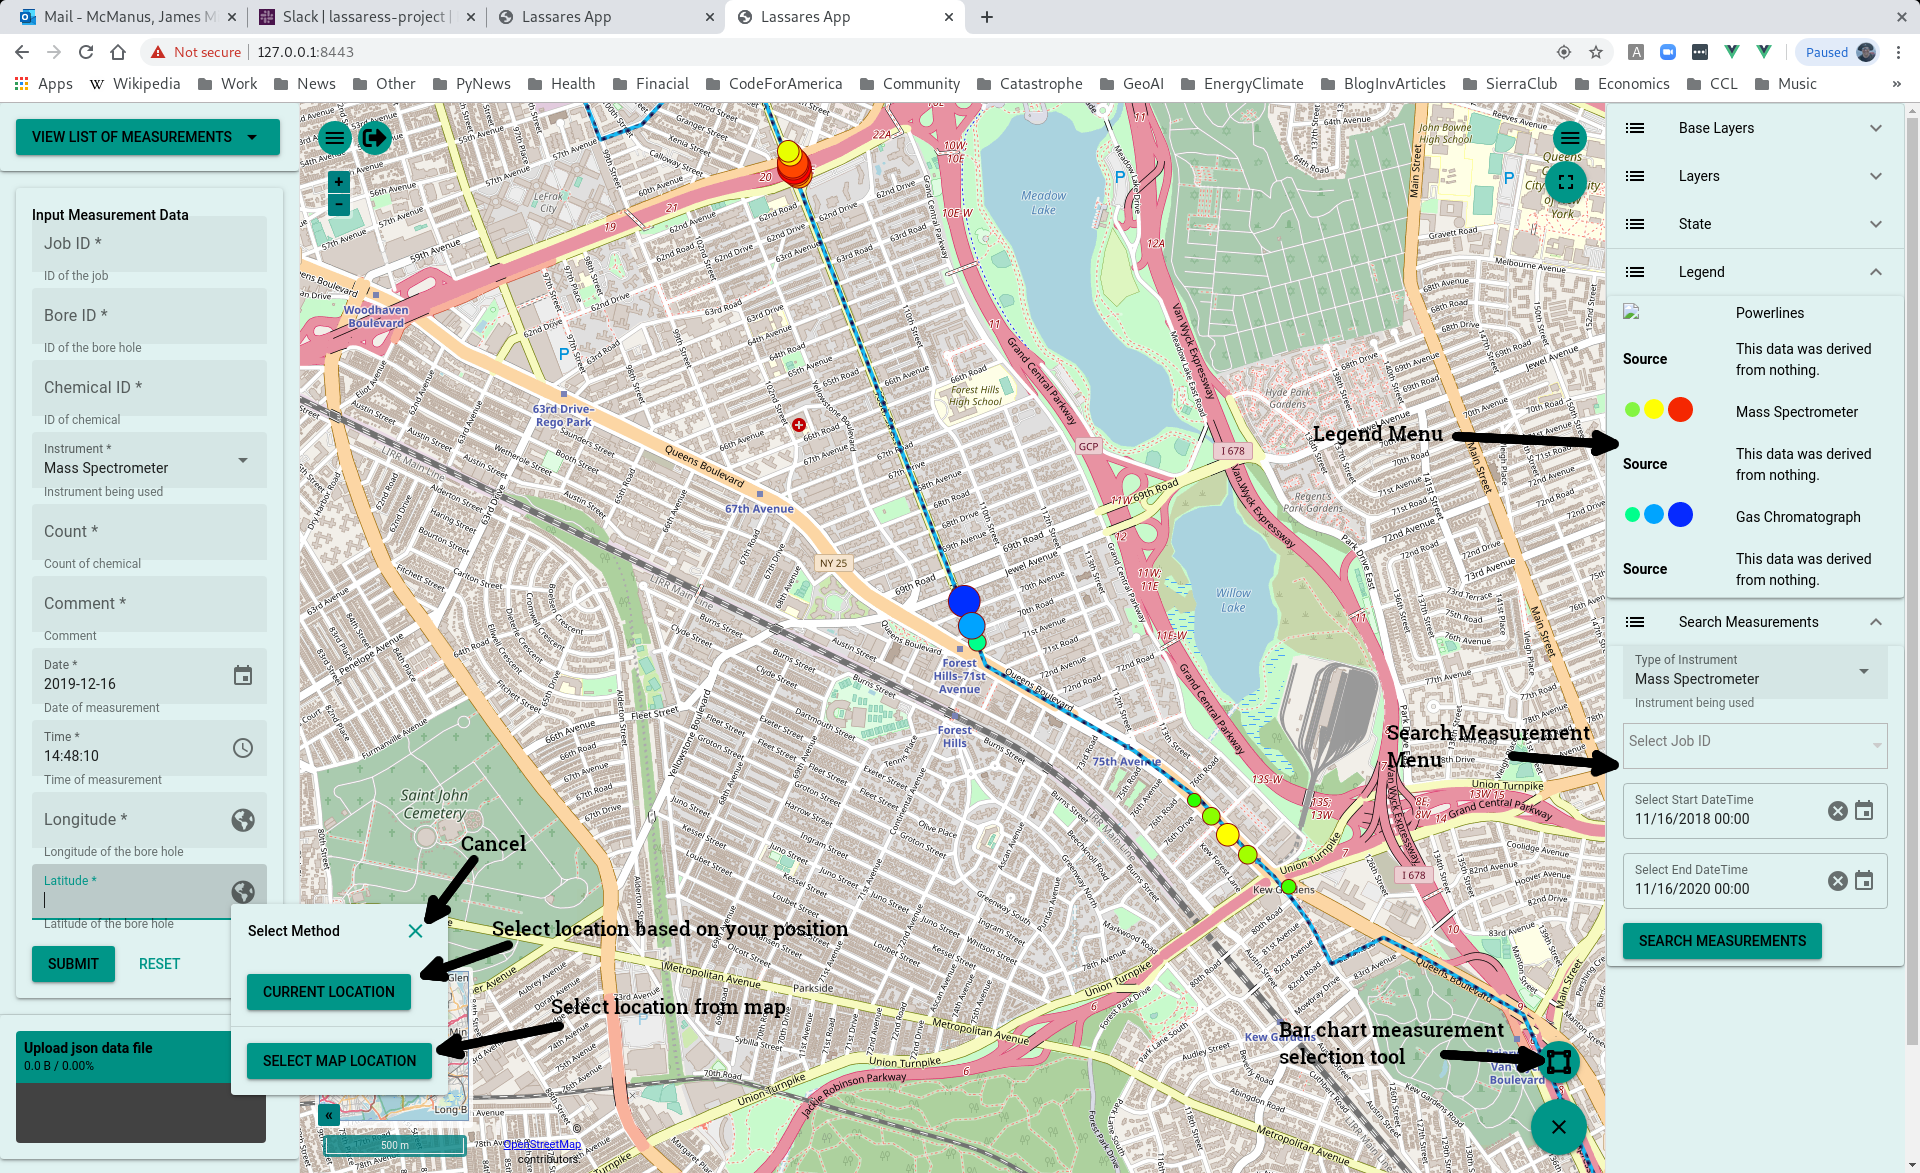
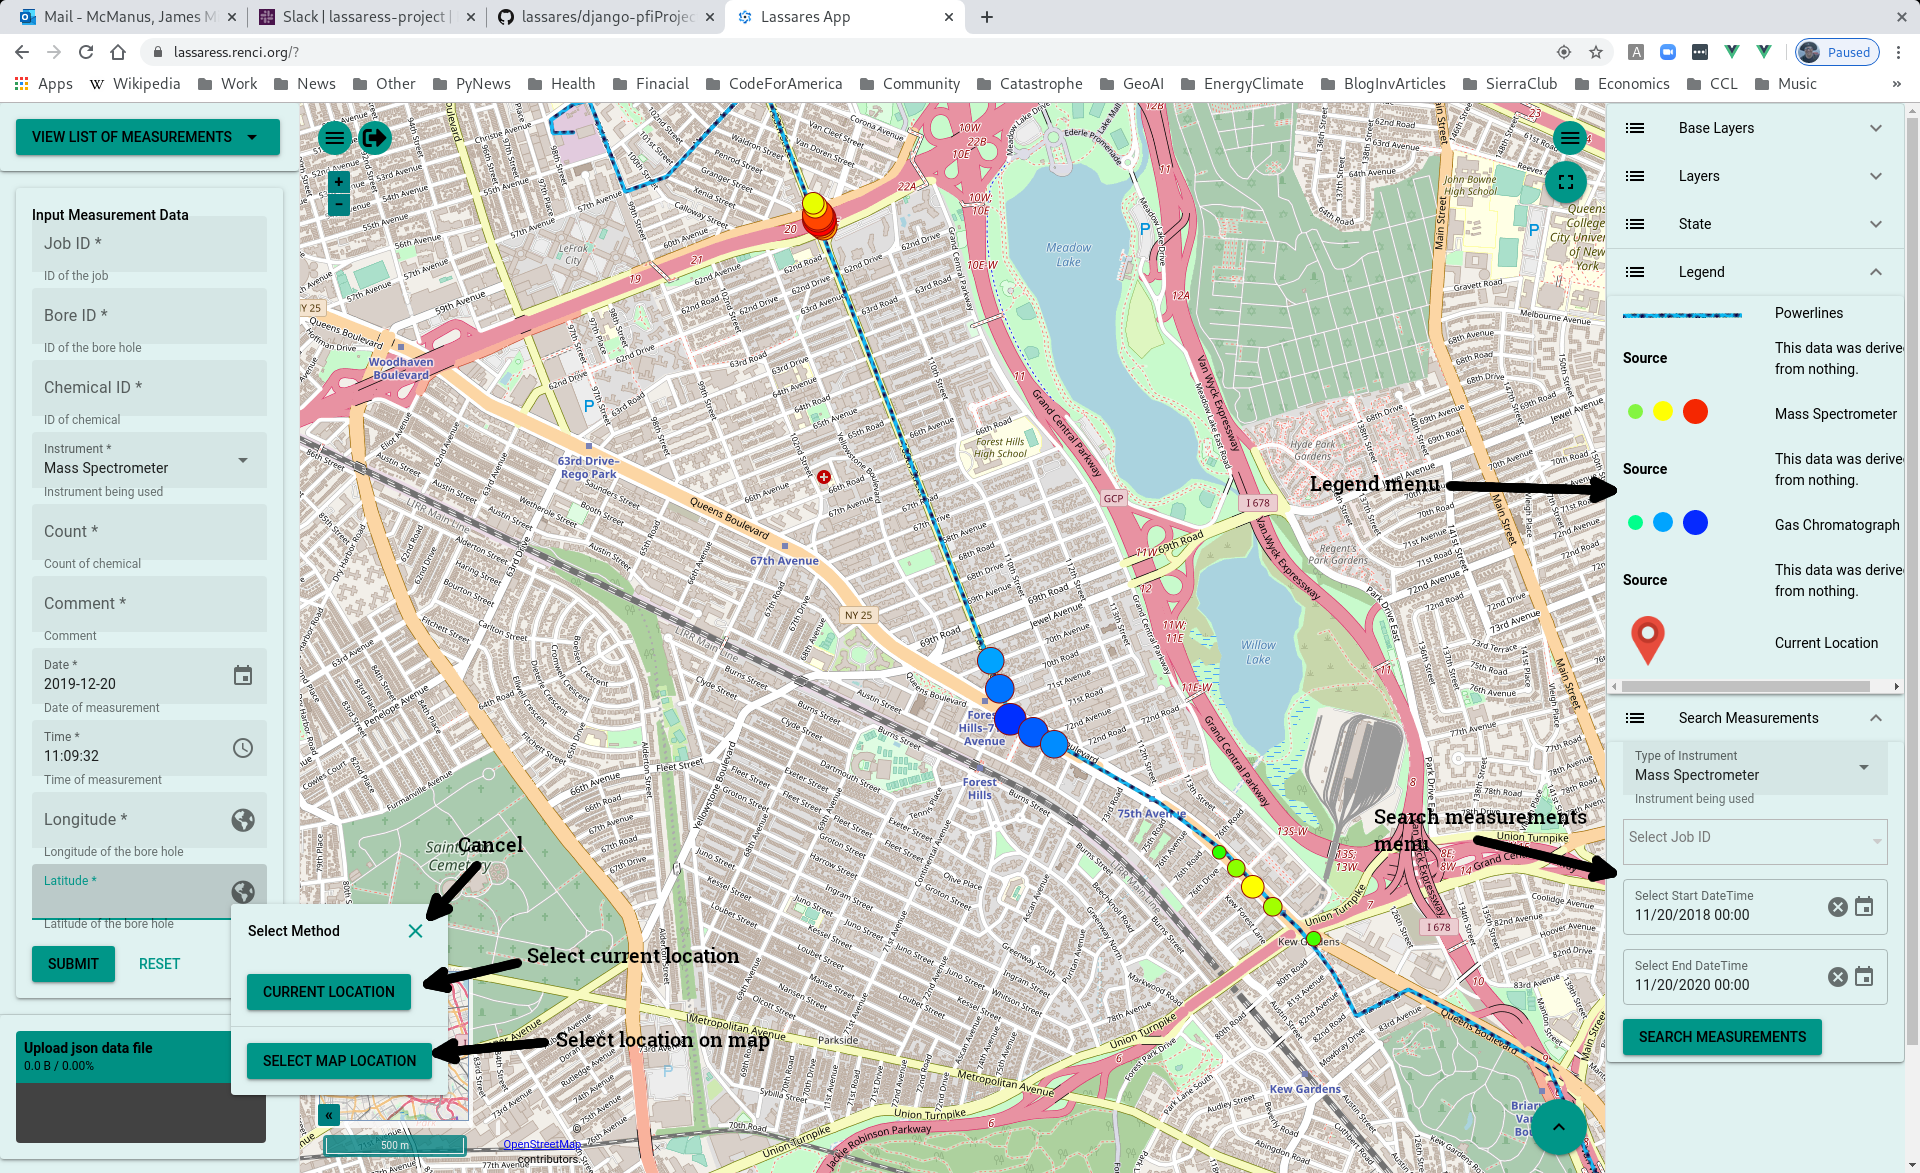
revised readme, explaining UI

diff --git a/django-pfiProject-docker/README.md b/django-pfiProject-docker/README.md
@@ -103,3 +103,24 @@ To enable this authentication system you will first need to get an auth0 account
 This will provide you with a CLIENT_ID and AUTH0_DOMAIN, which you will use as described above. Finally, in the auth0 application you need to put the url, where the lassress app will be accesible, in "Allowed Callback URLs", "Allowed Web Origins", and "Allowed Logout URLs". 
 
 For a deeper read into this subject check out [Building Modern Applications with Django and Vue.js by Ahmed Bouchefra](https://auth0.com/blog/building-modern-applications-with-django-and-vuejs/).
+
+## <a name="webapp"></a>Web Application
+
+After loging in the left side draw will appear which containes access to lists of measurements, a data entry form, and data upload interface. In addition to these, the image below points out other components for the web interface.
+![web-interface](../../master/images/LassaresApp.png)
+If you click on the "View List of Measurement" button a dropdown menu will appear, where you can select the instrument in which you want to see its measurements.
+![list-choice](../../master/images/LassaresAppListChoice.png)
+When you select an instrument a list of measurements for that instrument will appear, where you will be able to delete a measurement, edit or update the measurement, and change page.
+![list-measurements](../../master/images/LassaresAppListMeasurements.png)
+Inputs in "Input Measurement Data" form that have additional windows are "Instrument" input which has a dropdown menu to select the instrument.
+![instrument-input](../../master/images/LassaresAppInstrument.png)
+In the "Date" and "Time" inputs fields you can select the icon on the right side of the input field to get a calendar or clock popup.
+![calendar-input](../../master/images/LassaresAppCalendar.png)
+In the "Longitude" and "Latitude" fields you can select the globe, on the right side of the fields, to get a popup menu where you can select the longitude and latitude for you current physical location, or you can select a location on the map. When you select a location on the map a blue dot will appear beneath your mouse arrow, which you can move to the location for the measurement and then click. The longitude and latitude for that location will appear
+in the appropriate fields.
+![location-input](../../master/images/LassaresAppLegendSearchLocation.png)
+The image above also shows the "legend" menu, and "search measurement" menu fully opened on the right side drawer.
+The right side drawer also has a "state" menu which shows additional information about the map, including the coordinates of the device you are using, or you physical location, and the coordinates for a feature you select, which also show a popup. You can use the button in the bottom right hand corner to access the barchart selectionn tool, which enables you to create barcharts of data you selected.
+![app-pop-state](../../master/images/LassaresAppAppPopState.png)
+After selecting the barchart selection tool, a window will appear where you can first select the instrument in which you want to chart its data. You then select the "Draw Polygon Around Features" button. The will produce a blue dot beneath you mouse arrow, which you can use to draw a square around the instruments data you want to plot. Double click when you select the last corner of the square, and a popup showing the bargraph will appear.
+![app-pop-up](../../master/images/LassaresAppAppPopUp.png)
